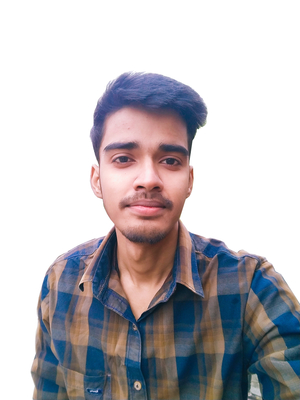
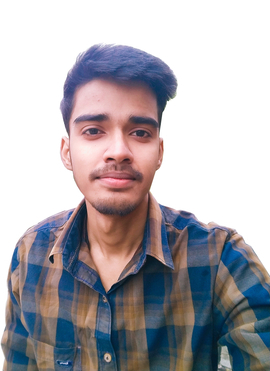
Updated

diff --git a/assets/css/style.css b/assets/css/style.css
@@ -211,13 +211,16 @@ footer {
     flex-direction: column;
   }
   .left img {
-    width: 100%;
+    width: 50%;
+    margin-bottom: 0rem;
   }
   .left h3 {
     font-size: 2rem;
+    margin-top: 1rem;
   }
   .left p {
     margin: 1rem 0;
+    font-size: 14px;
   }
 
   nav {

diff --git a/_posts/2020-02-17-best-icon-desktop-themes-for-linux-distros-🤔-share-your-favs-🤓.md b/_posts/2020-02-17-best-icon-desktop-themes-for-linux-distros-🤔-share-your-favs-🤓.md
@@ -9,10 +9,11 @@ date: '2020-02-08 12:00:00'
 I've been using MacOS icons and theme in XFCE desktop environment for a long time.
 
 Theme:
-https://www.xfce-look.org/p/1275087/
+
+[https://www.xfce-look.org/p/1275087/](https://www.xfce-look.org/p/1275087/)
+
 Icon:
-https://www.xfce-look.org/s/XFCE/p/1305429
+
+[https://www.xfce-look.org/s/XFCE/p/1305429](https://www.xfce-look.org/s/XFCE/p/1305429)
 
 I also use QOGIR theme for icons and theme.
-
-What's your favorite ?????? 🤔
